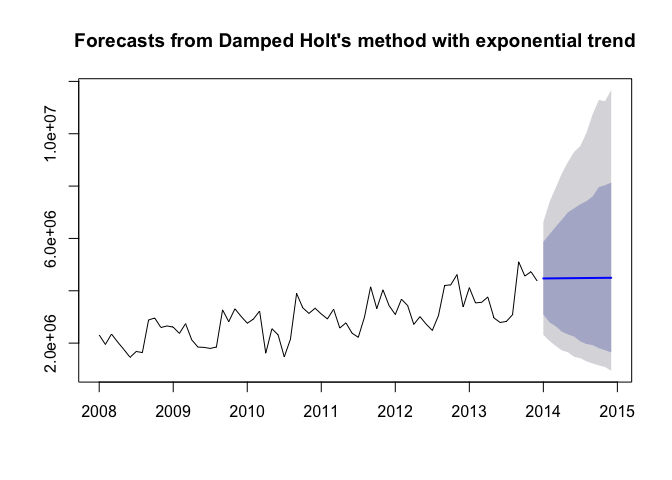
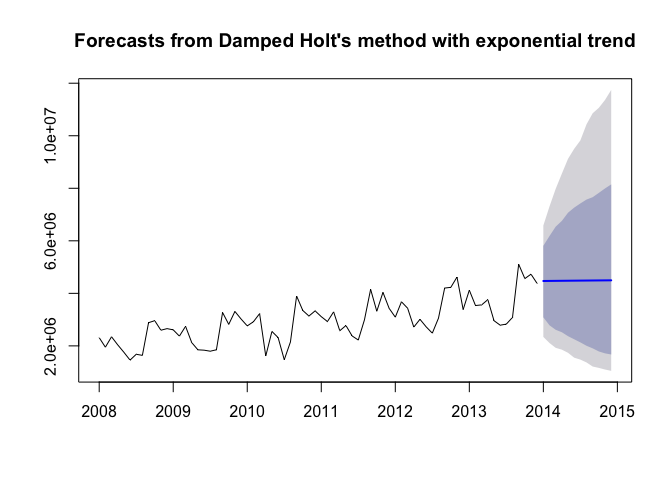
Add files via upload

diff --git a/analysis/data/7.md b/analysis/data/7.md
@@ -10,12 +10,12 @@ July 7, 2016
 
 [Back to Home](https://github.com/wkerneck/CaseStudy2)
 
-* 7.0   [Developing forecasting models with alternative model approaches](#id-section6)
-* 7.1   [Exponential smoothing](#id-section6)
-* 7.1.1 [Simple expontential smoothing](#id-section6)
-* 7.1.2 [Holt's linear trend method](#id-section6)
-* 7.1.3 [Holt-Winter's seasonal method](#id-section6)
-* 7.1.4 [Innovations state space models for exponential smoothing](#id-section6) 
+* 7.0   [Developing forecasting models with alternative model approaches](#id-section7)
+* 7.1   [Exponential smoothing](#id-section7.1)
+* 7.1.1 [Simple expontential smoothing](#id-section7.1.1)
+* 7.1.2 [Holt's linear trend method](#id-section7.1.2)
+* 7.1.3 [Holt-Winter's seasonal method](#id-section7.1.3)
+* 7.1.4 [Innovations state space models for exponential smoothing](#id-section7.1.4) 
 
 ****************************
 <div id='id-section7.0'/>
@@ -209,18 +209,18 @@ summary(Model_holt_2)
 ## 
 ## Forecasts:
 ##          Point Forecast   Lo 80   Hi 80   Lo 95    Hi 95
-## Jan 2014        4488281 3094294 5884746 2335536  6583919
-## Feb 2014        4502175 2851690 6329346 2126305  7329490
-## Mar 2014        4516113 2659882 6590960 1945271  8060803
-## Apr 2014        4530094 2457490 6842555 1743627  8540193
-## May 2014        4544118 2360928 6985305 1610277  9171675
-## Jun 2014        4558186 2173759 7248468 1493202  9233293
-## Jul 2014        4572297 2110630 7399482 1426939  9611758
-## Aug 2014        4586452 2028932 7612920 1340552 10363469
-## Sep 2014        4600650 1935698 7918862 1283976 11074367
-## Oct 2014        4614893 1867118 8144809 1179117 11242779
-## Nov 2014        4629180 1804270 8158993 1119334 11903362
-## Dec 2014        4643510 1710944 8428039 1048804 12022613
+## Jan 2014        4488281 3117319 5873077 2432282  6655755
+## Feb 2014        4502175 2875165 6235839 2165025  7284215
+## Mar 2014        4516113 2712569 6523813 1925893  7839234
+## Apr 2014        4530094 2497139 6782951 1812380  8344233
+## May 2014        4544118 2368470 6961562 1715288  8942610
+## Jun 2014        4558186 2288870 7243915 1609298  9429320
+## Jul 2014        4572297 2174634 7432119 1494318  9905909
+## Aug 2014        4586452 2064475 7707583 1384615 10236716
+## Sep 2014        4600650 2004107 7950493 1268815 11177897
+## Oct 2014        4614893 1938072 8170908 1262271 11355846
+## Nov 2014        4629180 1857271 8276007 1182154 12094814
+## Dec 2014        4643510 1786379 8331811 1136683 12360725
 ```
 
 ```r
@@ -332,19 +332,19 @@ summary(Model_holt_4)
 ## Training set 0.0254941
 ## 
 ## Forecasts:
-##          Point Forecast   Lo 80   Hi 80     Lo 95    Hi 95
-## Jan 2014        4470648 3088389 5869343 2316745.3  6626919
-## Feb 2014        4473164 2797864 6154309 2084116.6  7387480
-## Mar 2014        4475630 2646443 6442386 1894668.2  7938591
-## Apr 2014        4478047 2437598 6713491 1722482.9  8479346
-## May 2014        4480418 2332674 7001045 1650917.0  8926297
-## Jun 2014        4482742 2249471 7150107 1475241.4  9307788
-## Jul 2014        4485020 2065429 7304938 1423516.2  9535173
-## Aug 2014        4487253 1964560 7423823 1303257.8 10042698
-## Sep 2014        4489443 1924768 7606276 1221710.6 10751850
-## Oct 2014        4491589 1806312 7963012 1147513.4 11297182
-## Nov 2014        4493694 1730993 8032038 1088841.0 11239214
-## Dec 2014        4495757 1643255 8132022  940711.4 11672872
+##          Point Forecast   Lo 80   Hi 80   Lo 95    Hi 95
+## Jan 2014        4470648 3088364 5809545 2341887  6582696
+## Feb 2014        4473164 2782929 6182335 2108655  7308179
+## Mar 2014        4475630 2612633 6537984 1925875  7978374
+## Apr 2014        4478047 2519259 6757907 1856429  8555124
+## May 2014        4480418 2369817 7068833 1736577  9120776
+## Jun 2014        4482742 2251630 7264042 1550822  9502543
+## Jul 2014        4485020 2133590 7422248 1477883  9820668
+## Aug 2014        4487253 2003729 7570209 1369519 10434070
+## Sep 2014        4489443 1905952 7660784 1213820 10856921
+## Oct 2014        4491589 1787808 7825284 1161972 11063753
+## Nov 2014        4493694 1715241 7993837 1099933 11362955
+## Dec 2014        4495757 1672388 8147548 1049443 11743270
 ```
 
 ```r
@@ -398,3 +398,288 @@ legend("topleft",lty=1, col=c(1,"purple","blue","red","green","orange"), c("data
 ![](7_files/figure-html/unnamed-chunk-8-5.png)<!-- -->
 
 As these forecasts are not very convincing at the moment, there is no need to export the data.
+
+****************************
+<div id='id-section7.1.3'/>
+####  7.1.3 Holt-Winter's seasonal method
+
+Holt and Winters have expanded Holt's model further to include the seasonality aspect. The parameter gamma, which is for smoothing the seasonality, was added to achieve this. The values are better than the models without seasonality. This logical matches our results from the regression approaches, the data is strongly influenced by seasonality. In the following model, none of the parameters are given so that they will be optimised automatically. There are two models: one using an additive error model method and one using a multiplicative error model.
+
+
+```r
+Model_hw_1 <- hw(TotalAsIs ,seasonal="additive",h=12)
+summary(Model_hw_1)
+```
+
+```
+## 
+## Forecast method: Holt-Winters' additive method
+## 
+## Model Information:
+## Holt-Winters' additive method 
+## 
+## Call:
+##  hw(x = TotalAsIs, h = 12, seasonal = "additive") 
+## 
+##   Smoothing parameters:
+##     alpha = 0.0087 
+##     beta  = 0.0087 
+##     gamma = 1e-04 
+## 
+##   Initial states:
+##     l = 2047375.0884 
+##     b = 22509.7631 
+##     s=259168.3 654942.6 474529.8 876025.2 -475155 -852844
+##            -664662.5 -412596.7 -438677.3 273215 138077.9 167976.7
+## 
+##   sigma:  241685
+## 
+##      AIC     AICc      BIC 
+## 2124.856 2134.747 2161.283 
+## 
+## Error measures:
+##                    ME   RMSE      MAE         MPE     MAPE      MASE
+## Training set 21615.43 241685 202218.5 -0.08252109 7.329458 0.5512016
+##                    ACF1
+## Training set -0.2819072
+## 
+## Forecasts:
+##          Point Forecast   Lo 80   Hi 80   Lo 95   Hi 95
+## Jan 2014        4141204 3831472 4450936 3667510 4614898
+## Feb 2014        4147309 3837472 4457147 3673453 4621165
+## Mar 2014        4318537 4008512 4628563 3844394 4792680
+## Apr 2014        3642744 3332425 3953063 3168153 4117335
+## May 2014        3704865 3394124 4015605 3229628 4180102
+## Jun 2014        3488859 3177546 3800173 3012746 3964973
+## Jul 2014        3336738 3024677 3648799 2859482 3813994
+## Aug 2014        3750478 3437474 4063482 3271780 4229176
+## Sep 2014        5137771 4823607 5451935 4657298 5618244
+## Oct 2014        4772337 4456775 5087900 4289726 5254949
+## Nov 2014        4988809 4671591 5306028 4503665 5473953
+## Dec 2014        4629097 4309943 4948252 4140992 5117202
+```
+
+```r
+plot(Model_hw_1)
+```
+
+![](7_files/figure-html/unnamed-chunk-9-1.png)<!-- -->
+
+```r
+#     AIC     AICc      BIC 
+#2127.984 2137.875 2164.411 
+```
+
+
+```r
+Model_hw_2 <- hw(TotalAsIs ,seasonal="multiplicative",h=12)
+summary(Model_hw_2)
+```
+
+```
+## 
+## Forecast method: Holt-Winters' multiplicative method
+## 
+## Model Information:
+## Holt-Winters' multiplicative method 
+## 
+## Call:
+##  hw(x = TotalAsIs, h = 12, seasonal = "multiplicative") 
+## 
+##   Smoothing parameters:
+##     alpha = 0.025 
+##     beta  = 0.0062 
+##     gamma = 1e-04 
+## 
+##   Initial states:
+##     l = 2026247.531 
+##     b = 25395.1259 
+##     s=1.0933 1.232 1.1763 1.3086 0.8384 0.699
+##            0.7653 0.8502 0.8596 1.0793 1.0316 1.0665
+## 
+##   sigma:  0.0877
+## 
+##      AIC     AICc      BIC 
+## 2128.303 2138.194 2164.729 
+## 
+## Error measures:
+##                    ME     RMSE      MAE        MPE     MAPE      MASE
+## Training set 17434.11 235296.6 191805.3 -0.3292809 7.213472 0.5228175
+##                    ACF1
+## Training set -0.3514421
+## 
+## Forecasts:
+##          Point Forecast   Lo 80   Hi 80   Lo 95   Hi 95
+## Jan 2014        4226941 3751624 4702258 3500006 4953876
+## Feb 2014        4123665 3659738 4587591 3414151 4833179
+## Mar 2014        4350808 3860995 4840620 3601704 5099911
+## Apr 2014        3494208 3100476 3887940 2892046 4096370
+## May 2014        3484738 3091618 3877858 2883513 4085963
+## Jun 2014        3162774 2805463 3520085 2616314 3709234
+## Jul 2014        2912399 2582802 3241996 2408324 3416474
+## Aug 2014        3521645 3122278 3921013 2910865 4132425
+## Sep 2014        5540988 4911109 6170867 4577671 6504304
+## Oct 2014        5020487 4448200 5592775 4145249 5895725
+## Nov 2014        5299729 4693715 5905743 4372911 6226547
+## Dec 2014        4740169 4196230 5284108 3908286 5572052
+```
+
+```r
+plot(Model_hw_2)
+```
+
+![](7_files/figure-html/unnamed-chunk-10-1.png)<!-- -->
+
+```r
+#     AIC     AICc      BIC 
+#2137.673 2147.564 2174.100 
+```
+
+The additive model gives slightly better results than the multiplicative model.
+
+
+```r
+plot(Model_hw_1, ylab="Exports Chulwalar  ", plot.conf=FALSE, type="o", fcol="white", xlab="Year")
+lines(fitted(Model_hw_1), col="red", lty=2)
+lines(fitted(Model_hw_2), col="green", lty=2)
+lines(Model_hw_1$mean, type="o", col="red")
+lines(Model_hw_2$mean, type="o", col="green")
+legend("topleft",lty=1, pch=1, col=1:3, c("data","Holt Winters' Additive","Holt Winters' Multiplicative"))
+```
+
+![](7_files/figure-html/unnamed-chunk-11-1.png)<!-- -->
+
+In order to use the results later, they need to be converted into point forcasts.
+
+
+```r
+Model_hw_1_df <-as.data.frame(Model_hw_1) 
+Model_hw_1_PointForecast <- ts(Model_hw_1_df$"Point Forecast", start=c(2014,1), end=c(2014,12), frequency=12)
+Model_hw_1_PointForecast
+```
+
+```
+##          Jan     Feb     Mar     Apr     May     Jun     Jul     Aug
+## 2014 4141204 4147309 4318537 3642744 3704865 3488859 3336738 3750478
+##          Sep     Oct     Nov     Dec
+## 2014 5137771 4772337 4988809 4629097
+```
+
+```r
+Model_hw_2_df <-as.data.frame(Model_hw_2) 
+Model_hw_2_PointForecast <- ts(Model_hw_2_df$"Point Forecast", start=c(2014,1), end=c(2014,12), frequency=12)
+Model_hw_2_PointForecast
+```
+
+```
+##          Jan     Feb     Mar     Apr     May     Jun     Jul     Aug
+## 2014 4226941 4123665 4350808 3494208 3484738 3162774 2912399 3521645
+##          Sep     Oct     Nov     Dec
+## 2014 5540988 5020487 5299729 4740169
+```
+
+Output instruction for the data export of the results for further use in Excel.
+
+
+```r
+write.csv(Model_hw_1_PointForecast,file='Model_hw_1_PointForecast.csv')
+write.csv(Model_hw_2_PointForecast,file='Model_hw_2_PointForecast.csv')
+```
+
+****************************
+<div id='id-section7.1.4'/>
+####  7.1.4 Innovations state space models for exponential smoothing
+
+The funktion ets() produces a model with the same values as Model_hw_1. The reason for this is that all of the parameters in this model were optimised using the ets() function. The results are a ets(A,A,A) model which is an additive method for trend, seasonality and errors. The previous models also showed the type of ets() model in their summary. In this case the user parameters were either accepted or rejected. As the model has been set to 
+"ZZZ", the best model will be automatically chosen. 
+
+
+```r
+Model_ets <-ets(TotalAsIs, model="ZZZ", damped=NULL, alpha=NULL, beta=NULL, gamma=NULL, phi=NULL, additive.only=FALSE, lambda=NULL, lower=c(rep(0.0001,3), 0.8), upper=c(rep(0.9999,3),0.98), opt.crit=c("lik","amse","mse","sigma","mae"), nmse=3, bounds=c("both","usual","admissible"), ic=c("aicc","aic","bic"), restrict=TRUE)
+summary(Model_ets)
+```
+
+```
+## ETS(A,A,A) 
+## 
+## Call:
+##  ets(y = TotalAsIs, model = "ZZZ", damped = NULL, alpha = NULL,  
+## 
+##  Call:
+##      beta = NULL, gamma = NULL, phi = NULL, additive.only = FALSE,  
+## 
+##  Call:
+##      lambda = NULL, lower = c(rep(1e-04, 3), 0.8), upper = c(rep(0.9999,  
+## 
+##  Call:
+##          3), 0.98), opt.crit = c("lik", "amse", "mse", "sigma",  
+## 
+##  Call:
+##          "mae"), nmse = 3, bounds = c("both", "usual", "admissible"),  
+## 
+##  Call:
+##      ic = c("aicc", "aic", "bic"), restrict = TRUE) 
+## 
+##   Smoothing parameters:
+##     alpha = 0.0087 
+##     beta  = 0.0087 
+##     gamma = 1e-04 
+## 
+##   Initial states:
+##     l = 2047375.0885 
+##     b = 22509.7629 
+##     s=259168.3 654942.6 474529.8 876025.2 -475155 -852844
+##            -664662.5 -412596.7 -438677.3 273215 138077.9 167976.7
+## 
+##   sigma:  241685.1
+## 
+##      AIC     AICc      BIC 
+## 2124.856 2134.747 2161.283 
+## 
+## Training set error measures:
+##                    ME     RMSE      MAE         MPE     MAPE      MASE
+## Training set 21587.58 241685.1 202221.1 -0.08332944 7.329631 0.5512087
+##                    ACF1
+## Training set -0.2818997
+```
+
+```r
+plot(Model_ets)
+```
+
+![](7_files/figure-html/unnamed-chunk-14-1.png)<!-- -->
+
+```r
+Model_ets_forecast <- forecast(Model_ets,h=12)
+plot(Model_ets_forecast)
+```
+
+![](7_files/figure-html/unnamed-chunk-14-2.png)<!-- -->
+
+```r
+#     AIC     AICc      BIC 
+#2127.984 2137.875 2164.411 
+```
+
+In order to use the results later, they need to be converted into point forcasts.
+
+
+```r
+Model_ets_forecast_df <-as.data.frame(Model_ets_forecast) 
+Model_ets_PointForecast <- ts(Model_ets_forecast_df$"Point Forecast", start=c(2014,1), end=c(2014,12), frequency=12)
+Model_ets_PointForecast
+```
+
+```
+##          Jan     Feb     Mar     Apr     May     Jun     Jul     Aug
+## 2014 4141260 4147361 4318585 3642788 3704905 3488896 3336770 3750506
+##          Sep     Oct     Nov     Dec
+## 2014 5137795 4772357 4988825 4629109
+```
+
+Output instruction for the data export of the results for further use in Excel.
+
+
+```r
+#write.csv(Model_ets_PointForecast,file='Model_ets_PointForecast.csv')
+```
